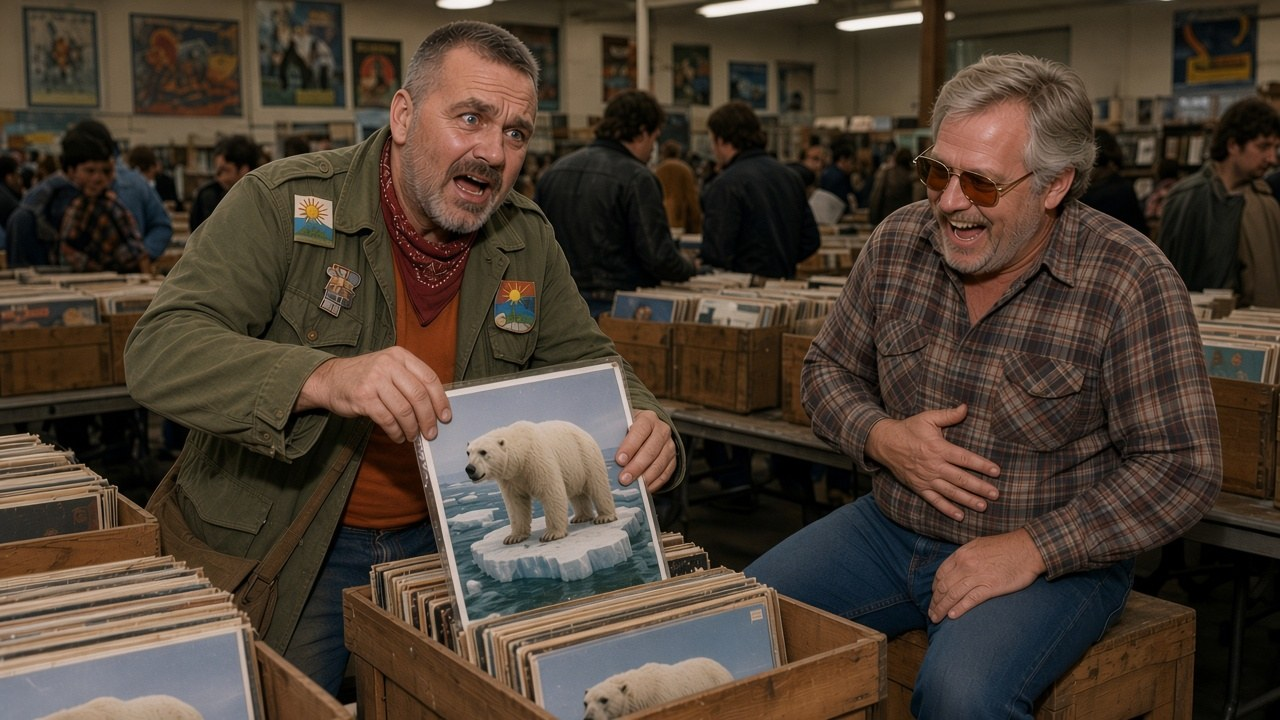
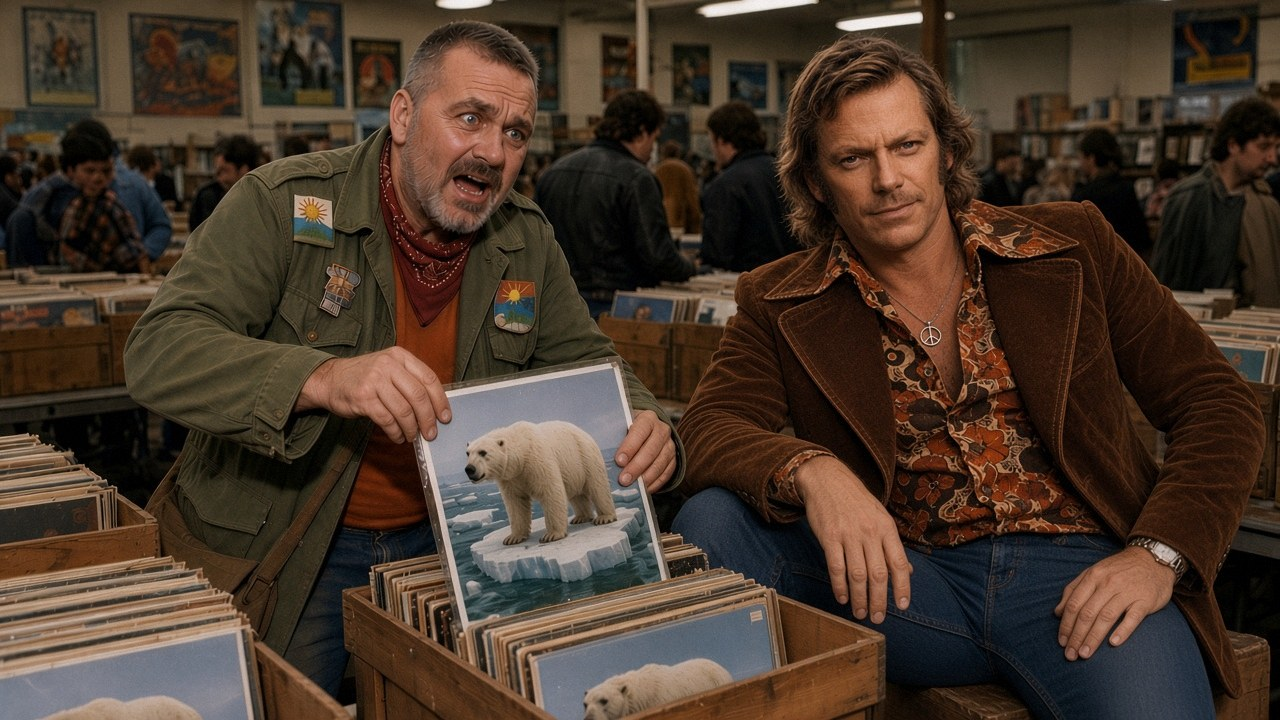
Collection: add a word from the Ad Man; vinylban: a cool regular in dg2

diff --git a/preview-wy4u7thzbj5o/collection/index.html b/preview-wy4u7thzbj5o/collection/index.html
@@ -34,6 +34,18 @@
 .piece-wide{grid-column:1/-1;max-width:560px;justify-self:center;width:100%}
 .fine{margin:8px 0 0;padding-top:16px;border-top:1px solid var(--line);font-size:13px;line-height:1.6;color:#7a7a88;max-width:680px}
 .back{display:inline-block;margin:26px 0 0;font:600 14px/1 var(--ui);color:var(--yel);text-decoration:none}
+
+.adman{display:grid;grid-template-columns:minmax(0,1.05fr) minmax(0,1fr);gap:32px 40px;align-items:start;margin:0 0 40px;padding-bottom:36px;border-bottom:1px solid var(--line)}
+.adman-pic{margin:0}
+.adman-pic picture,.adman-pic img{display:block;width:100%;height:auto;border-radius:6px;background:#111;box-shadow:0 18px 40px -24px rgba(0,0,0,.8)}
+.adman-pic figcaption{margin:10px 2px 0;font-size:13px;line-height:1.5;color:var(--muted)}
+.adman-copy .kicker{margin:0 0 8px}
+.adman-h{margin:0 0 16px;font:800 clamp(26px,3.2vw,36px)/1.1 var(--ui);letter-spacing:-.03em;color:#fff}
+.adman-copy p{margin:0 0 14px;font-size:17px;line-height:1.65;color:#dcdce4}
+.adman-sig{margin:18px 0 0;font:600 15px/1.45 var(--ui);color:#cfcfd8}
+@media (max-width:700px){
+  .adman{grid-template-columns:minmax(0,1fr);gap:20px;margin:0 0 32px;padding-bottom:28px}
+}
 @media (max-width:700px){
   .coll{grid-template-columns:minmax(0,1fr);gap:32px}
   .art-lead p{font-size:17px}
@@ -63,9 +75,28 @@
     <header class="art-head">
       <p class="kicker">Vinyl desk · The collection</p>
       <h1 class="art-h">Vintage hi-fi</h1>
-      <p class="dek">A crate of magazine advertisements — Technics, Marantz, Pioneer, JBL, Fisher, Yamaha, Kenwood and Sansui — catalogued by our Vinyl desk. Shown as they were printed.</p>
+      <p class="dek">A crate of magazine advertisements — Technics, Marantz, Pioneer, JBL, Fisher, Yamaha, Kenwood and Sansui — catalogued by our Vinyl desk. Shown as they were printed. With a word from the Ad Man.</p>
       <p class="byline">By <b>our Vinyl desk</b> · 12 ads</p>
     </header>
+
+
+    <section class="adman" aria-label="A word from the Ad Man">
+      <figure class="adman-pic">
+        <picture>
+          <source srcset="img/ad-man.webp" type="image/webp">
+          <img src="img/ad-man.jpg" width="1280" height="960" alt="A 1970s hi-fi advertising man with long feathered hair and a mustache sits in a leather lounge chair in a wood-panelled den, in a wide-lapel velvet blazer and an open-collar cream shirt, a whiskey glass and a cigarette in one hand, beside a silver receiver, a turntable and a large wood-veneer speaker" fetchpriority="high">
+        </picture>
+        <figcaption>The Ad Man, in the listening den, somewhere in the golden age.</figcaption>
+      </figure>
+      <div class="adman-copy">
+        <p class="kicker">A word from the Ad Man</p>
+        <h2 class="adman-h">Come in. The receiver is already warm.</h2>
+        <p>Welcome. You’ve found the crate. I used to make a living promising that a silver receiver and a pair of walnut speakers could improve not only the record, but the evening, the marriage, and possibly the resale value of the den. Between us: the receivers really were that heavy.</p>
+        <p>We sold wood veneer you could see your future in, and a better sound that arrived, as advertised, once you got the furniture in. The chrome still looks expensive. The wattage still looks slightly indecent. I wrote some of those lines. I believed the good ones.</p>
+        <p>Have a look through the pages as they were printed. I’ll be in the chair if you need me. The record is already on.</p>
+        <p class="adman-sig">— The Ad Man</p>
+      </div>
+    </section>
 
     <div class="art-lead">
       <p>No separate product shots came in the crate, so this is a gallery of the ads themselves: receivers, turntables, speakers and cassette decks, with the names and models as they appear on the page. Three of them also run as advertisements on the front of the site.</p>
@@ -206,7 +237,7 @@
       </figure>
     </section>
 
-    <p class="fine">Fine print: These are period-style magazine advertisements, shown as printed. Brand names and model numbers are taken from the pages themselves. This is a non-commercial fan page and is not affiliated with Technics, Panasonic, Marantz, Pioneer, JBL, Fisher, Altec Lansing, Yamaha, Kenwood, Sansui or any of the companies named in the ads.</p>
+    <p class="fine">Fine print: These are period-style magazine advertisements, shown as printed. Brand names and model numbers are taken from the pages themselves. The Ad Man’s portrait and remarks are an invented period-style introduction; he is not a historical figure, and the portrait is not one of the printed advertisements. This is a non-commercial fan page and is not affiliated with Technics, Panasonic, Marantz, Pioneer, JBL, Fisher, Altec Lansing, Yamaha, Kenwood, Sansui or any of the companies named in the ads.</p>
     <a class="back" href="../">← Back to the true tales</a>
   </article>
 

diff --git a/preview-wy4u7thzbj5o/vinylban/index.html b/preview-wy4u7thzbj5o/vinylban/index.html
@@ -91,13 +91,13 @@
 
     <div class="art-body">
       <p class="q">And Operation Silent Groove?</p>
-      <p class="a">I went to the record fair at the hall off Stanyan at dawn and replaced every sleeve with a laminated poster of a sad polar bear. A dealer named Walt Bender noticed first. He laughed so hard he had to sit down on a crate of records. Then he pointed out that lamination is plastic. I had not… I had not thought of that.</p>
+      <p class="a">I went to the record fair at the hall off Stanyan at dawn and replaced every sleeve with a laminated poster of a sad polar bear. A dealer named Walt Bender noticed first. He pointed out that lamination is plastic. I had not… I had not thought of that. A regular in a velvet jacket sat on a crate and looked at me as if the matter were already settled.</p>
     </div>
 
     <div class="art-body">
       <figure class="art-pic">
-        <picture><source srcset="img/dg2.webp?v=2" type="image/webp"><img src="img/dg2.jpg?v=2" alt="At a busy record fair, the same man in the surplus jacket and red bandana, eyes wide, pleading theatrically, holds up a laminated poster of a sad polar bear on an ice floe over a crate of records, while an older American dealer in a plaid shirt and tinted glasses sits on a crate laughing" width="1280" height="720" loading="lazy"></picture>
-        <figcaption>Operation Silent Groove. Walt Bender, right, is sitting on the evidence. “The polar bears were very well laminated,” Skip says, not entirely as a compliment.</figcaption>
+        <picture><source srcset="img/dg2.webp?v=3" type="image/webp"><img src="img/dg2.jpg?v=3" alt="At a busy record fair, the same man in the surplus jacket and red bandana, eyes wide, pleading theatrically, holds up a laminated poster of a sad polar bear on an ice floe over a crate of records, while a man with long 1970s hair, a brown velvet jacket, a floral shirt and a peace pendant sits on a crate, relaxed and unimpressed, with a slight knowing look" width="1280" height="720" loading="lazy"></picture>
+        <figcaption>Operation Silent Groove. A cool regular, right, sits on the evidence and is not buying it. “The polar bears were very well laminated,” Skip says, not entirely as a compliment.</figcaption>
       </figure>
 
       <figure class="art-pic">
